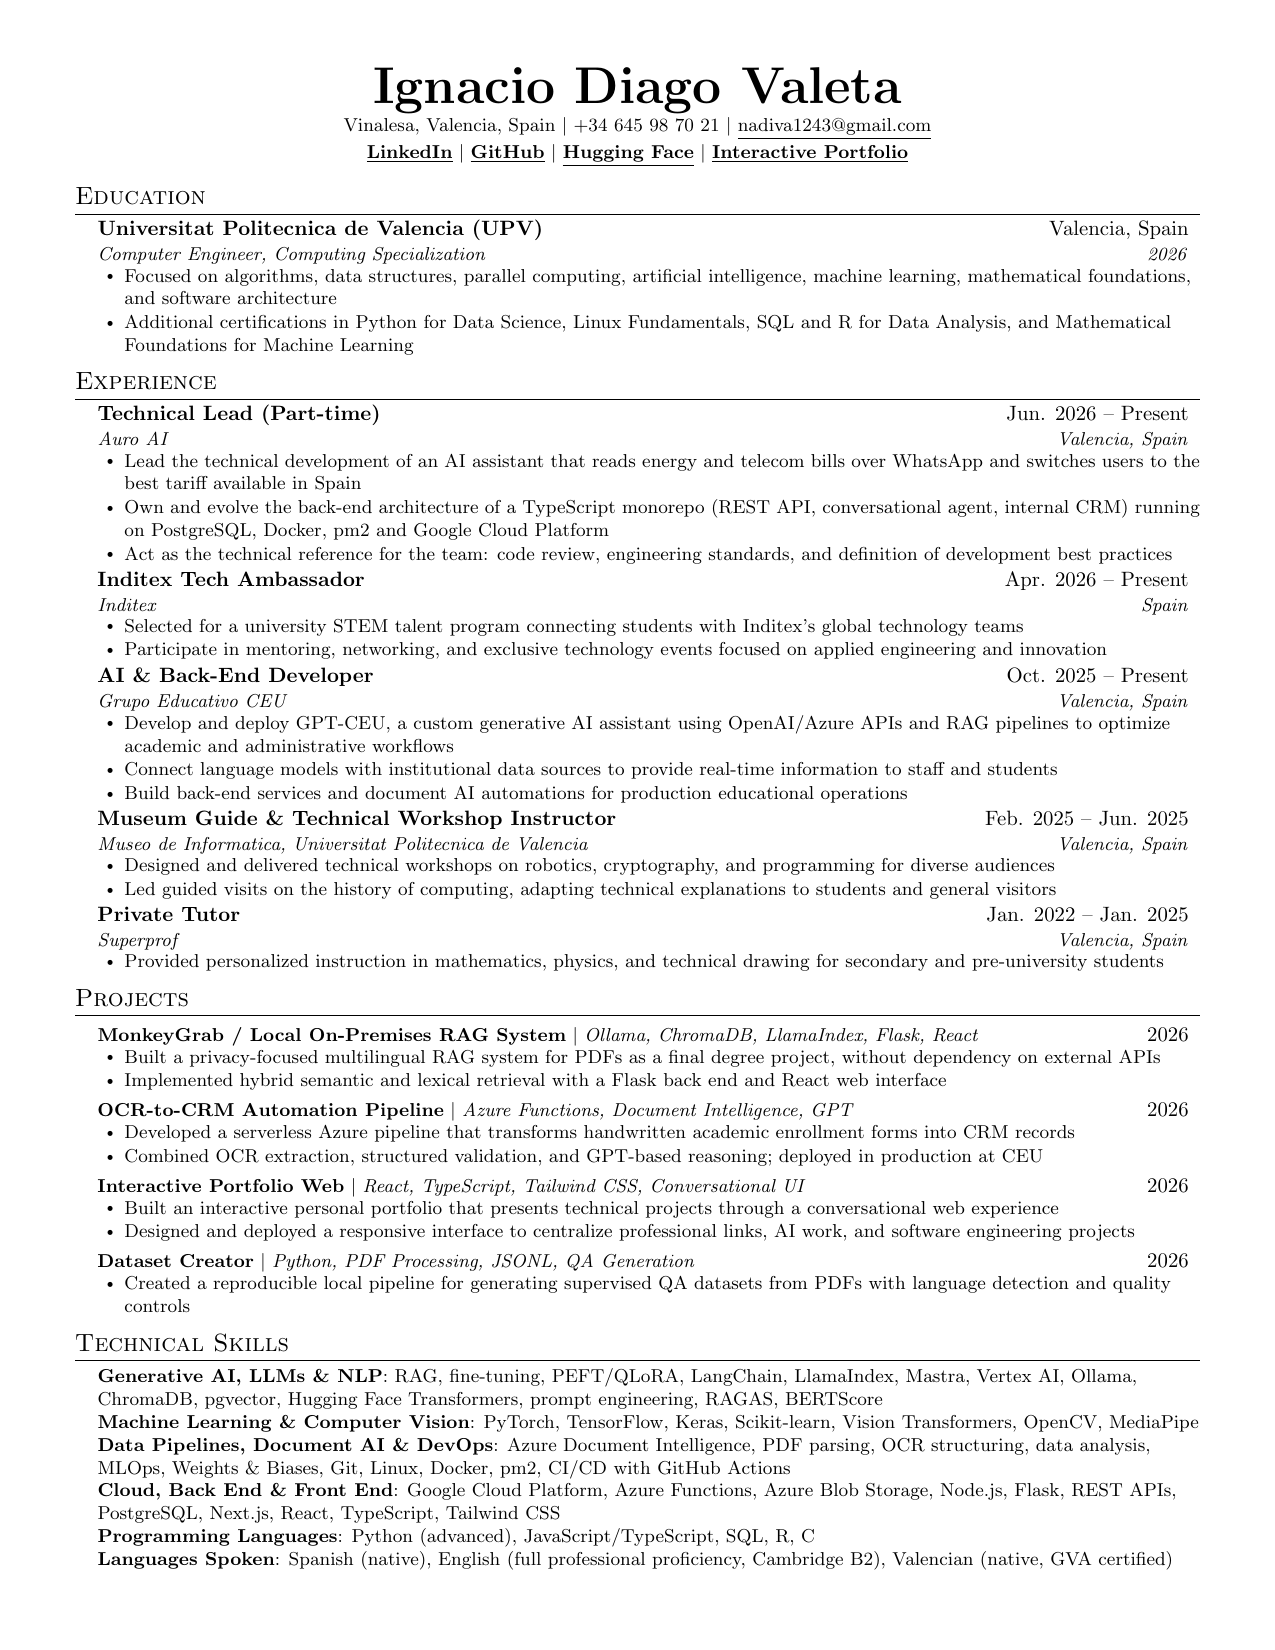
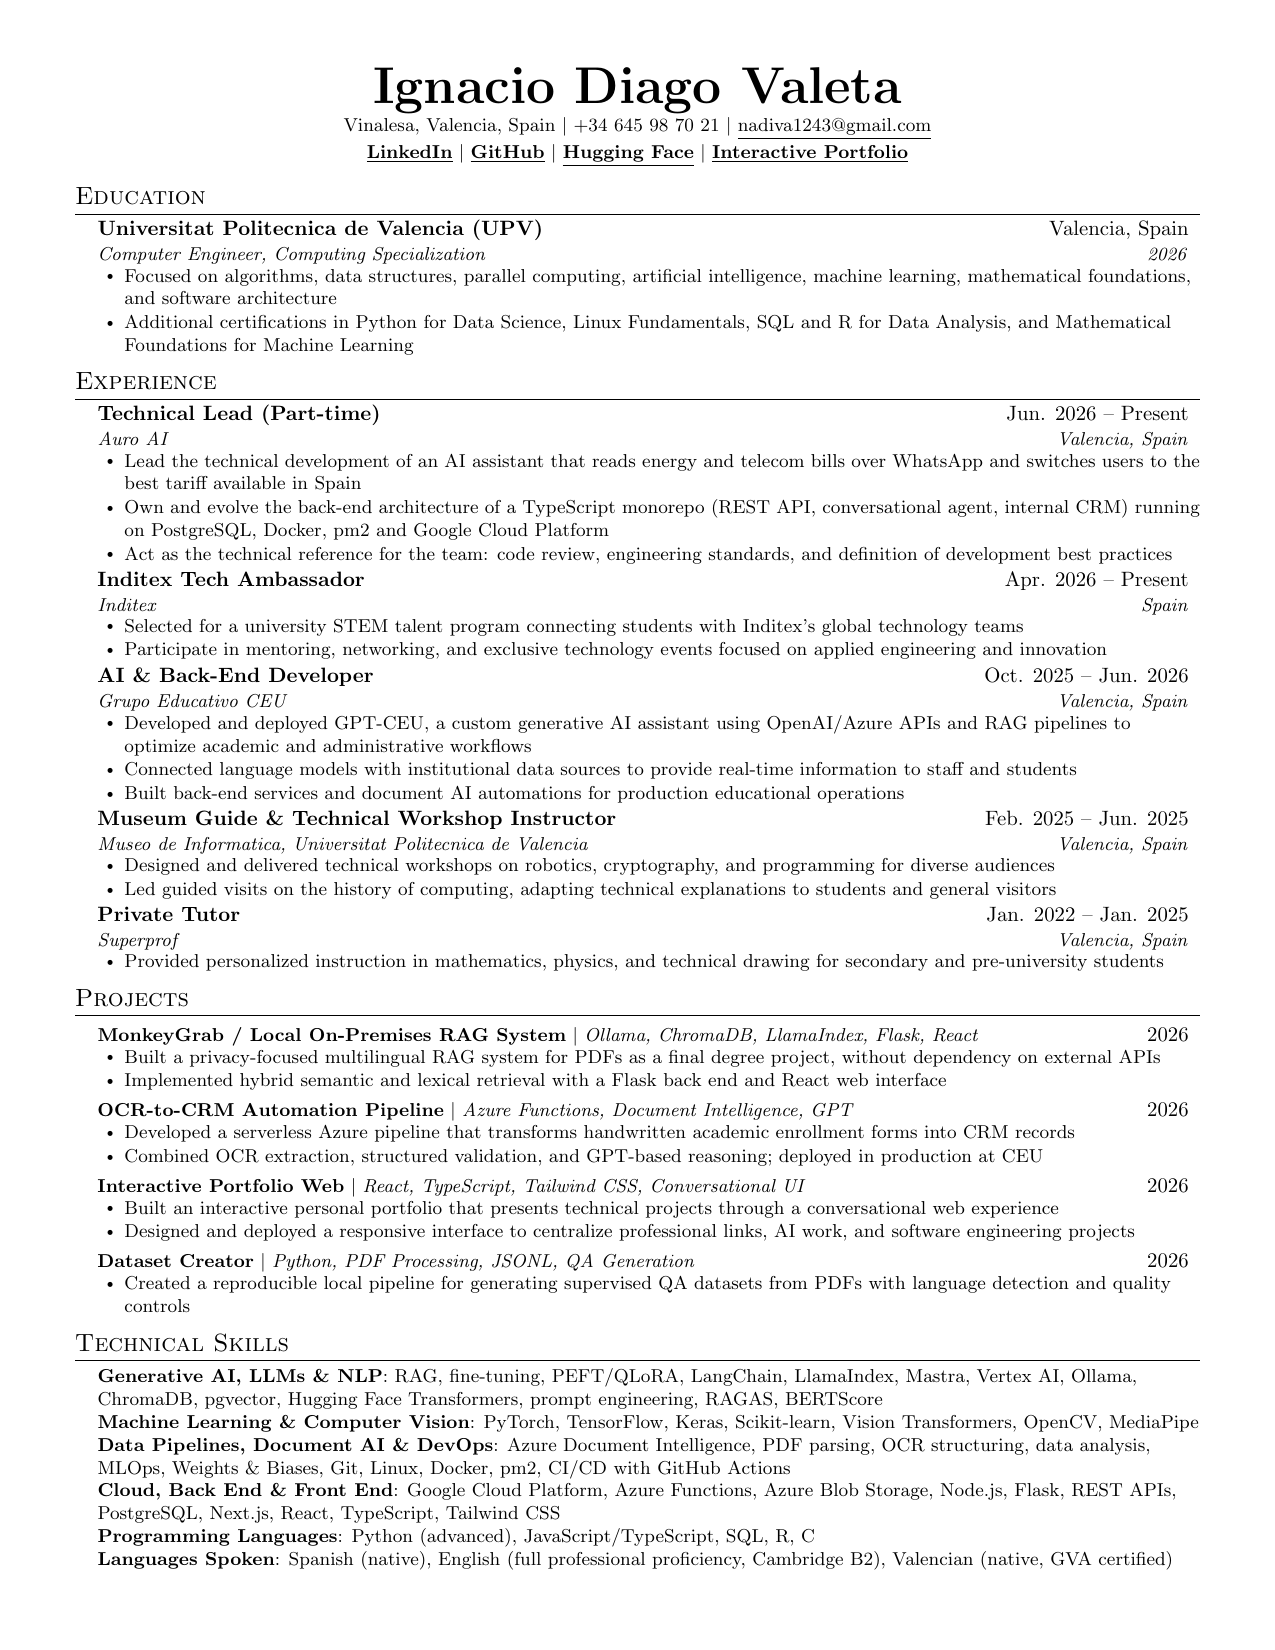
Close the CEU role in June 2026
The position at Grupo Educativo CEU ended when the Auro AI one started,
so its dates now close and its bullets move to past tense, matching how
the other finished roles read. The cover letter no longer presents CEU
as the current job.

Changed region(s): [[0.0918, 0.4018, 0.9176, 0.4945]]

diff --git a/cover_letter.tex b/cover_letter.tex
@@ -19,9 +19,9 @@ Vinalesa, Valencia, Spain\\
 \begin{letter}{Hiring Team}
 \opening{Dear Hiring Team,}
 
-I am a Computer Engineering student at Universitat Politecnica de Valencia, Technical Lead at Auro AI, and an AI \& Back-End Developer at Grupo Educativo CEU. I am writing to express my interest in opportunities where I can contribute to applied AI and software engineering projects with real impact.
+I am a Computer Engineering student at Universitat Politecnica de Valencia and Technical Lead at Auro AI, after a year as AI \& Back-End Developer at Grupo Educativo CEU. I am writing to express my interest in opportunities where I can contribute to applied AI and software engineering projects with real impact.
 
-In my current role, I design and deploy production AI solutions, including GPT-powered assistants and retrieval-augmented generation (RAG) pipelines connected to institutional data. At Auro AI I lead the technical development of a conversational AI product, owning the back-end architecture of a TypeScript monorepo on PostgreSQL, Docker and Google Cloud Platform, and setting the engineering standards the team works by. Alongside this work, I continue strengthening my engineering foundation through projects in machine learning, NLP, and scalable software design.
+In my current role at Auro AI, I lead the technical development of a conversational AI product, owning the back-end architecture of a TypeScript monorepo on PostgreSQL, Docker and Google Cloud Platform, and setting the engineering standards the team works by. Before that, at Grupo Educativo CEU, I designed and deployed production AI solutions, including GPT-powered assistants and retrieval-augmented generation (RAG) pipelines connected to institutional data. Alongside this work, I continue strengthening my engineering foundation through projects in machine learning, NLP, and scalable software design.
 
 I would value the opportunity to bring this mix of academic rigor, practical AI development, and strong execution to your team. Thank you for your time and consideration. I would be glad to discuss how I can contribute.
 

diff --git a/resume.tex b/resume.tex
@@ -127,12 +127,12 @@
       \resumeItemListEnd
 
     \resumeSubheading
-      {AI \& Back-End Developer}{Oct. 2025 -- Present}
+      {AI \& Back-End Developer}{Oct. 2025 -- Jun. 2026}
       {Grupo Educativo CEU}{Valencia, Spain}
       \resumeItemListStart
-        \resumeItem{Develop and deploy GPT-CEU, a custom generative AI assistant using OpenAI/Azure APIs and RAG pipelines to optimize academic and administrative workflows}
-        \resumeItem{Connect language models with institutional data sources to provide real-time information to staff and students}
-        \resumeItem{Build back-end services and document AI automations for production educational operations}
+        \resumeItem{Developed and deployed GPT-CEU, a custom generative AI assistant using OpenAI/Azure APIs and RAG pipelines to optimize academic and administrative workflows}
+        \resumeItem{Connected language models with institutional data sources to provide real-time information to staff and students}
+        \resumeItem{Built back-end services and document AI automations for production educational operations}
       \resumeItemListEnd
 
     \resumeSubheading
